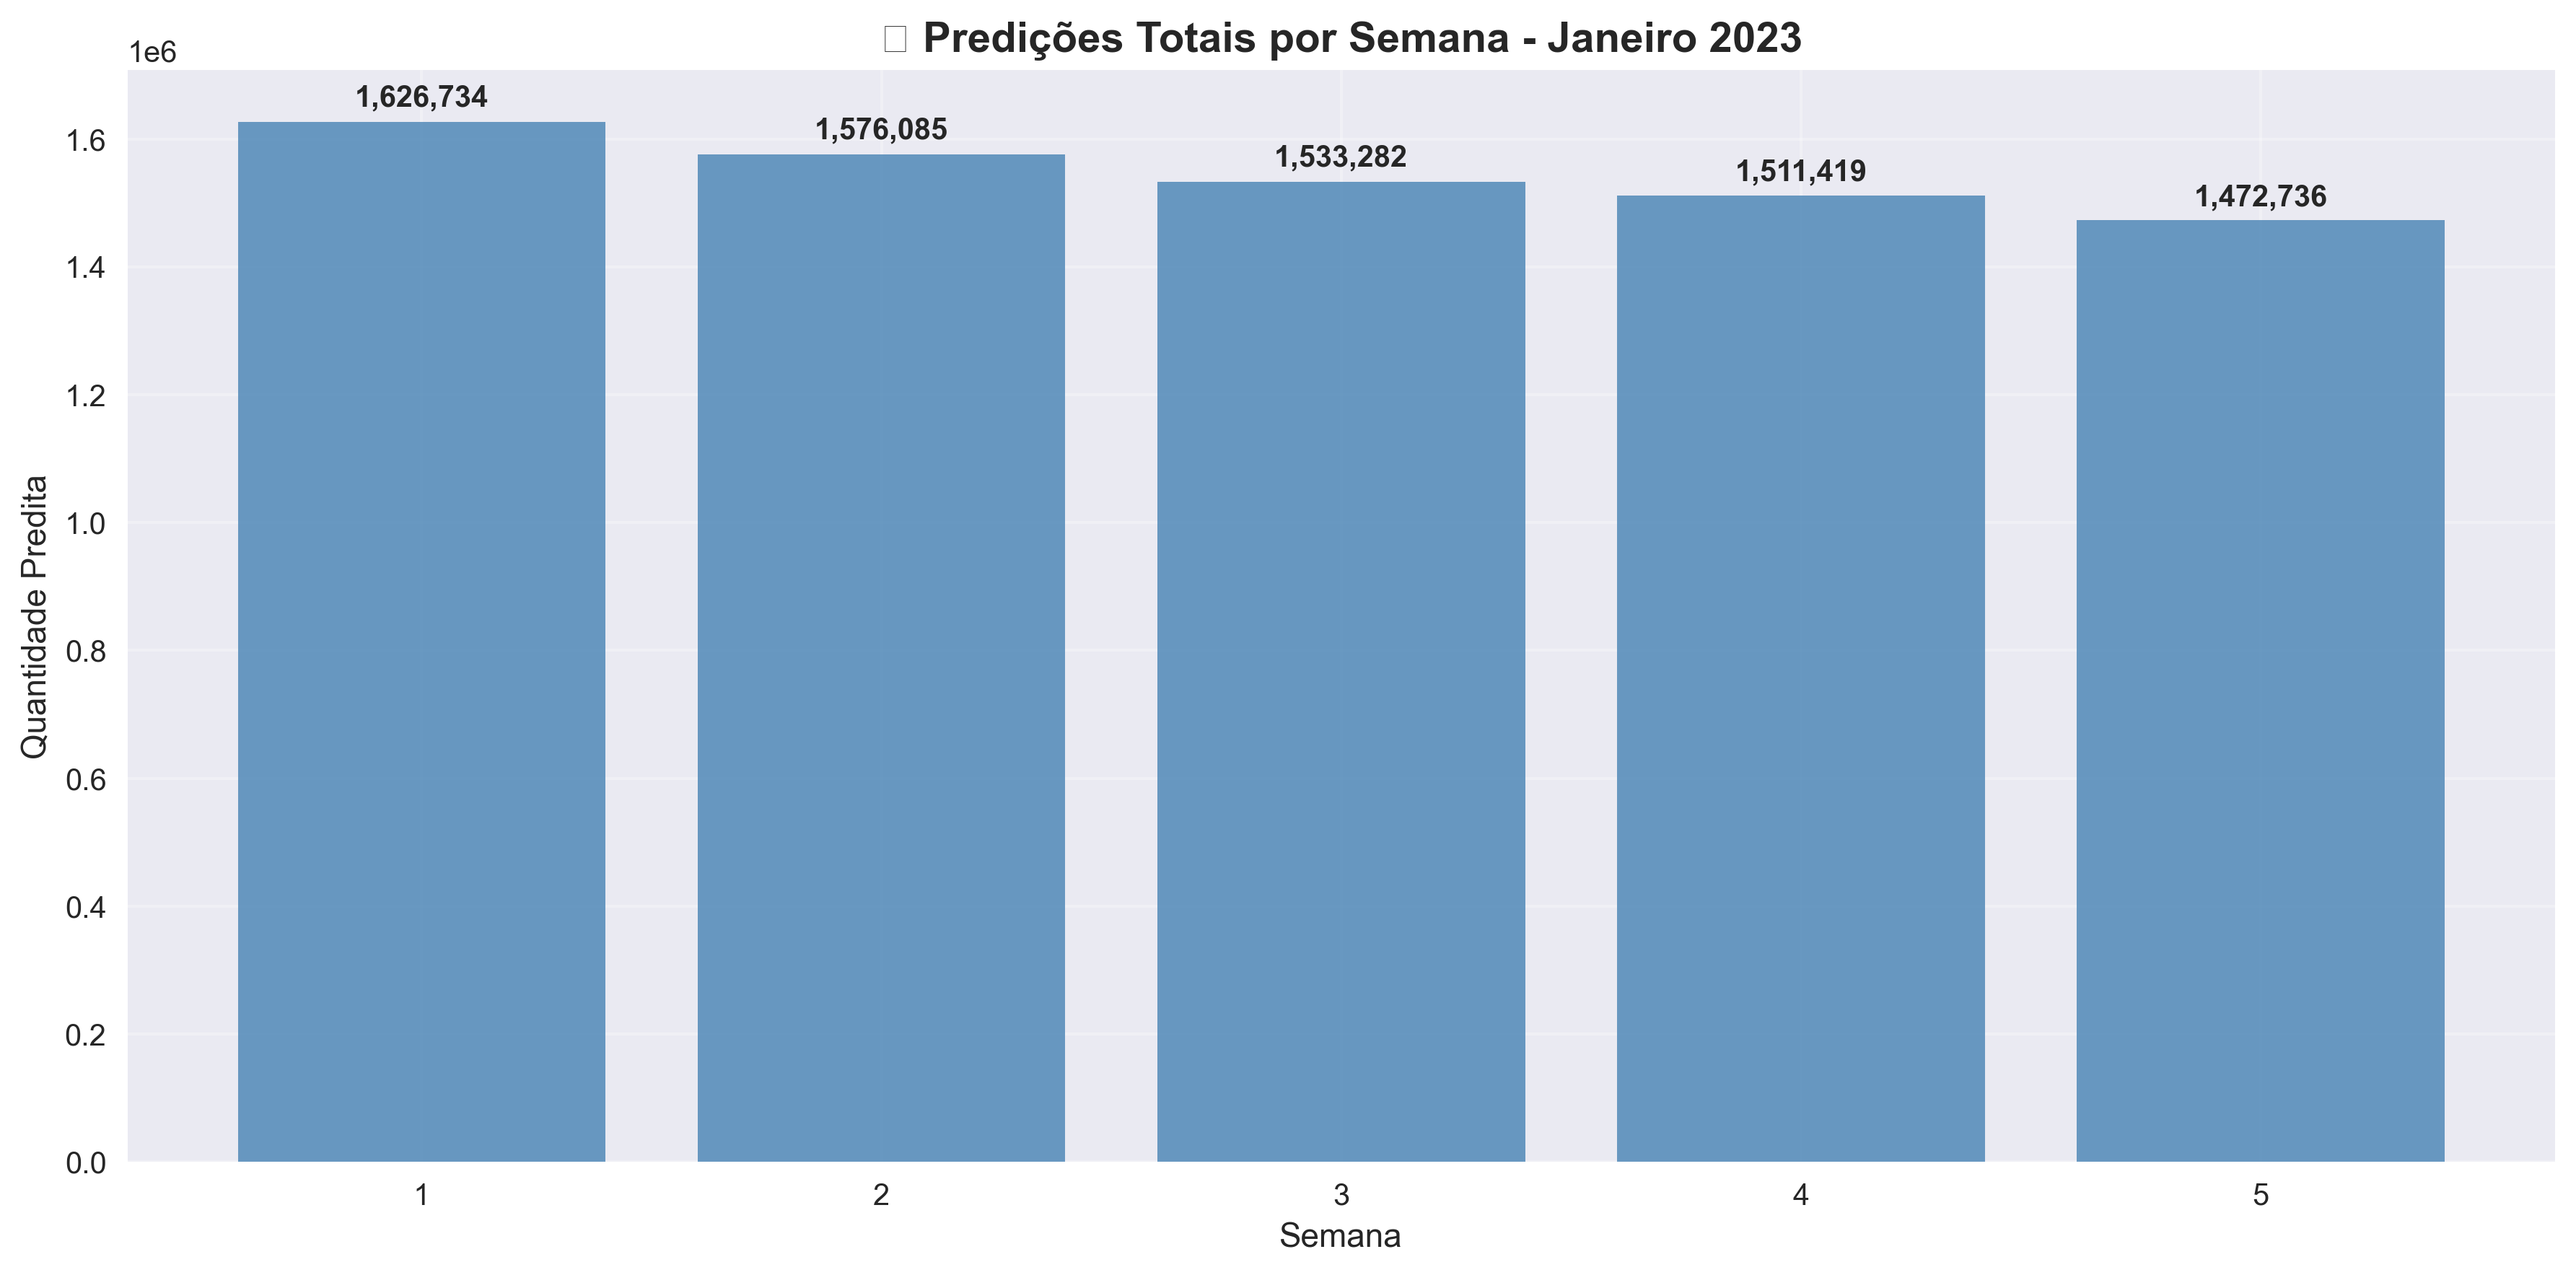
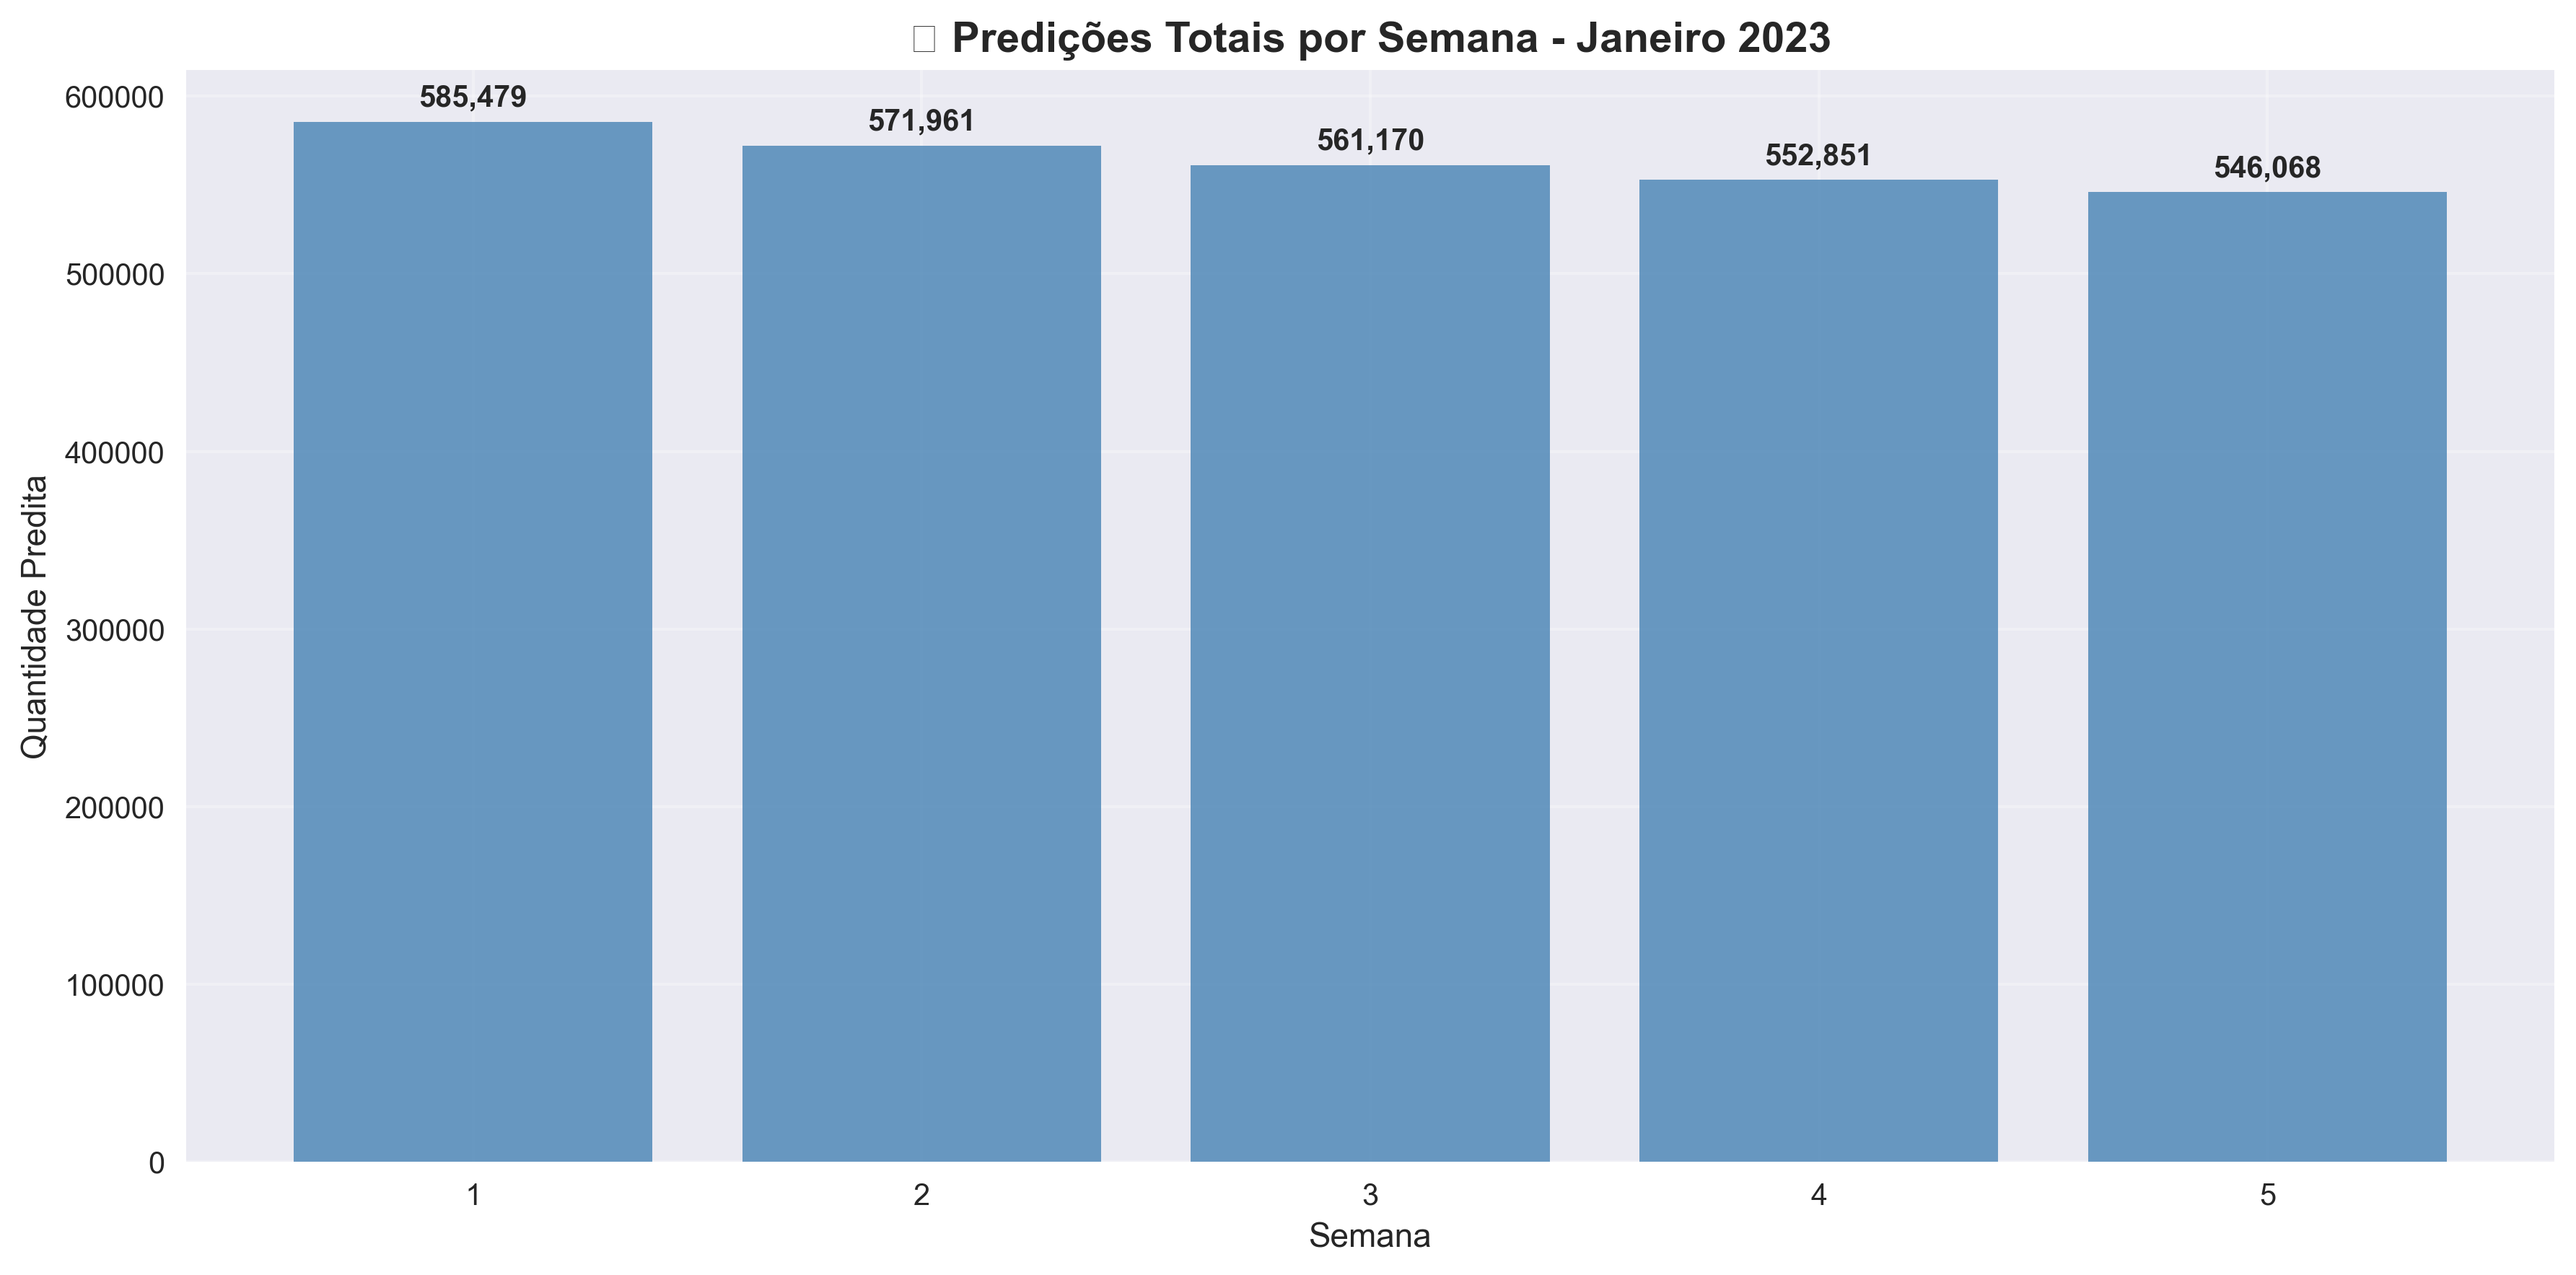
Projeto final

diff --git a/scripts/model.py b/scripts/model.py
@@ -581,16 +581,27 @@ class Predictor:
             }
             hist_data_map[(pdv, sku)] = (sorted_group, hist_data_optimized)
         
-        valid_tasks = []
-        for pdv, sku in pdv_prod_list:
-            hist_tuple = hist_data_map.get((pdv, sku))
-            if hist_tuple is not None:
-                hist, hist_opt = hist_tuple
-                # Usar critério otimizado para histórico
-                if len(hist_opt['qty']) >= 8:
-                    valid_tasks.append((pdv, sku, hist))  # Manter formato original para compatibilidade
+        # DataFrame com os tamanhos do histórico
+        df_tasks = pd.DataFrame(pdv_prod_list, columns=['pdv', 'internal_product_id'])
+        df_tasks['history_len'] = df_tasks.set_index(['pdv', 'internal_product_id']).index.map(
+            lambda x: len(hist_data_map.get(x, (None, {'qty': []}))[1]['qty'])
+        )
 
-        print(f"   → {len(valid_tasks):,} combinações válidas (com histórico >= 8 semanas) para predição")
+        df_valid_tasks = df_tasks[df_tasks['history_len'] >= 12]
+
+        # Criar um DataFrame com os dados de histórico
+        df_hist_data = pd.DataFrame(
+            [(key[0], key[1], value[0]) for key, value in hist_data_map.items()],
+            columns=['pdv', 'internal_product_id', 'hist_data']
+        )
+
+        # Juntar (merge) os dois DataFrames de uma só vez
+        df_final_tasks = pd.merge(df_valid_tasks, df_hist_data, on=['pdv', 'internal_product_id'])
+
+        # Converter para o formato de lista de tuplas
+        valid_tasks = list(df_final_tasks[['pdv', 'internal_product_id', 'hist_data']].to_records(index=False))
+
+        print(f"   → {len(valid_tasks):,} combinações válidas (com histórico >= 12 semanas) para predição")
 
         if len(valid_tasks) == 0:
             print("   → ⚠ Nenhuma combinação atendeu aos critérios de histórico mínimo. Retornando DataFrame vazio.")
